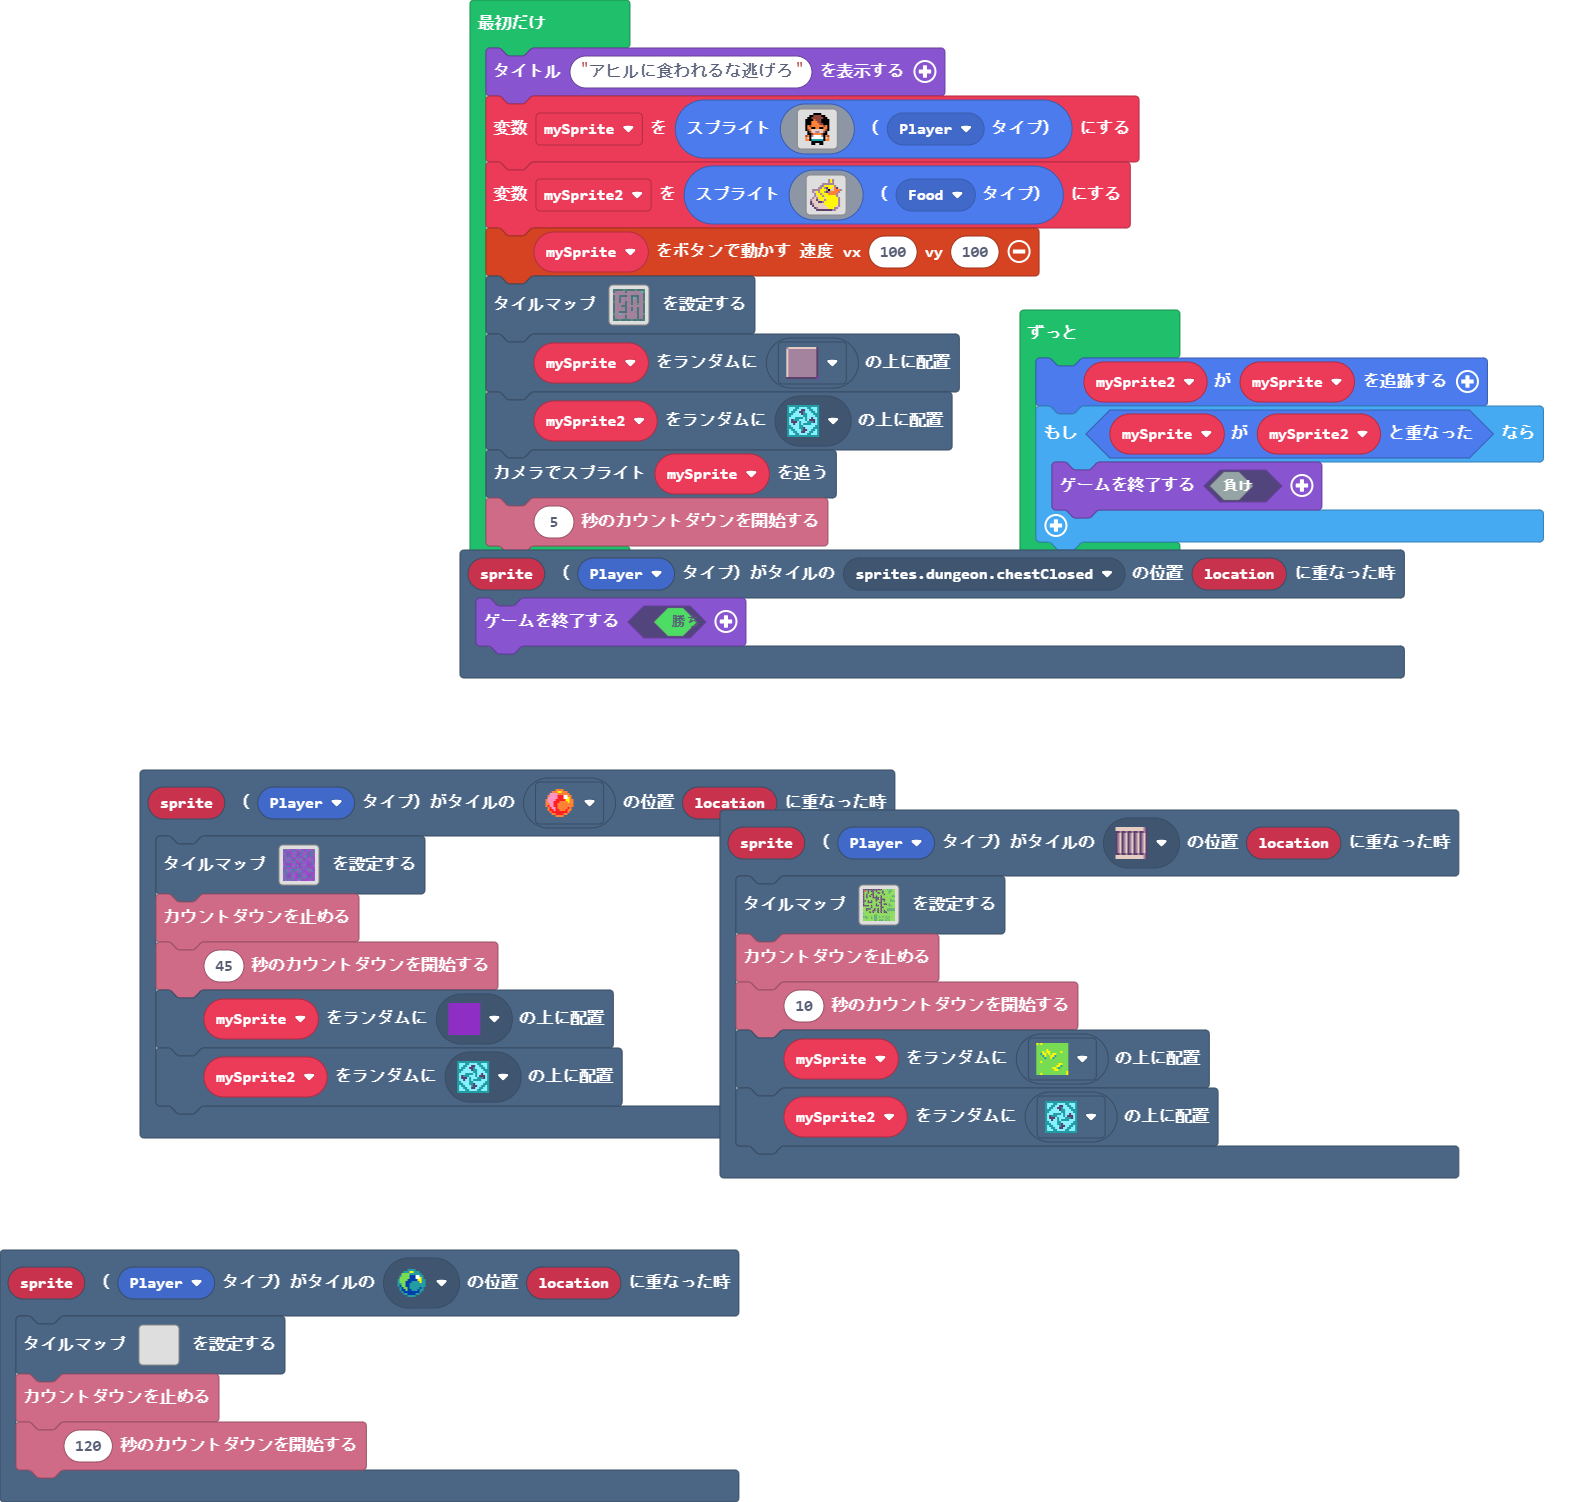
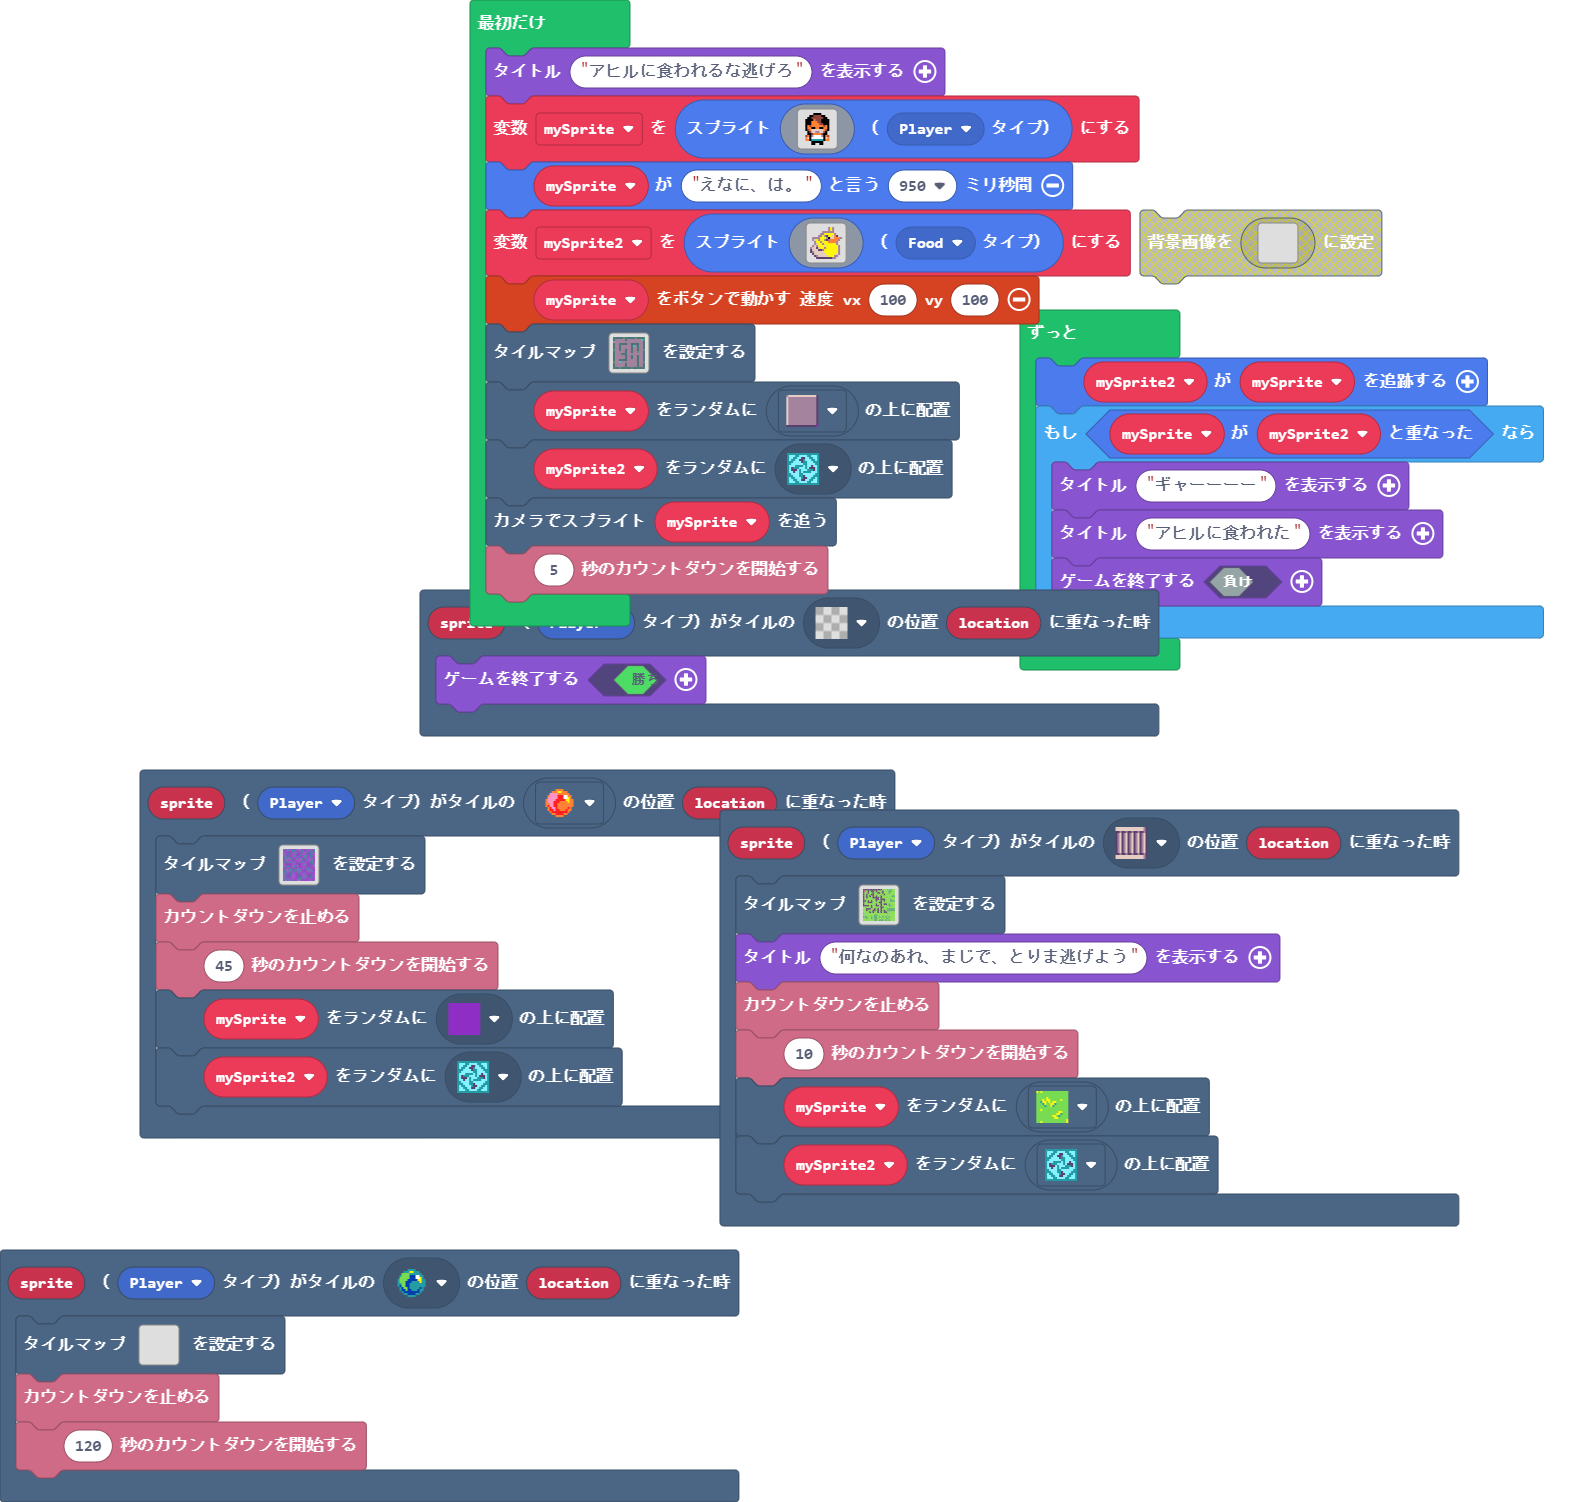
更新 pxt.json, main.blocks, main.ts, images.g.jres, images.g.ts

Changed region(s): [[0.2458, 0.0919, 0.9831, 0.49], [0.4301, 0.6125, 0.9216, 0.8269]]

diff --git a/images.g.ts b/images.g.ts
@@ -1,0 +1,71 @@
+// 自動生成されたコードです。変更しないでください。
+namespace myImages {
+
+    helpers._registerFactory("image", function(name: string) {
+        switch(helpers.stringTrim(name)) {
+
+        }
+        return null;
+    })
+
+    helpers._registerFactory("animation", function(name: string) {
+        switch(helpers.stringTrim(name)) {
+            case "villager3WalkRight":
+            case "anim1":return [img`
+. . . . . . . . . . . . 
+. . . f f f f f f . . . 
+. f f f e e e e e f . . 
+f f f e e e e e e e f . 
+f f f f e e e e e e e f 
+f f f f f e e e 4 e e f 
+f f f f e e e 4 4 e e f 
+f f f f 4 4 4 4 4 e f f 
+f f 4 e 4 f f 4 4 e f . 
+f f 4 d 4 d d d d f . . 
+. f f f 4 d d b b f . . 
+. 4 d d e 4 4 4 e f . . 
+. e d d e 1 1 1 1 f . . 
+. f e e f 6 6 6 6 f f . 
+. f f f f f f f f f f . 
+. . f f . . . f f f . . 
+`, img`
+. . . . . . . . . . . . 
+. . . f f f f f f . . . 
+. f f f e e e e e f . . 
+f f f e e e e e e e f . 
+f f f f e e e e e e e f 
+f f f f f e e e 4 e e f 
+f f f f e e e 4 4 e e f 
+f f f f 4 4 4 4 4 e f f 
+f f 4 e 4 f f 4 4 e f . 
+. f 4 d 4 d d d d f . . 
+. f f f e e d b b f . . 
+. . f 4 d d e 4 e f . . 
+. . f e d d e 1 1 f . . 
+. f f f e e f 6 6 f f . 
+. f f f f f f f f f f . 
+. . f f . . . f f f . . 
+`, img`
+. . . . f f f f f . . . 
+. . f f e e e e e f . . 
+. f f e e e e e e e f . 
+f f f f e e e e e e e f 
+f f f f f e e e 4 e e f 
+f f f f e e e 4 4 e e f 
+f f f f 4 4 4 4 4 e f f 
+f f 4 e 4 f f 4 4 e f f 
+. f 4 d 4 d d d d f f . 
+. f f f 4 d d b b f . . 
+. . f e e 4 4 4 e f . . 
+. . 4 d d e 1 1 1 f . . 
+. . e d d e 1 1 1 f . . 
+. . f e e f 6 6 6 f . . 
+. . . f f f f f f . . . 
+. . . . f f f . . . . . 
+`];
+        }
+        return null;
+    })
+
+}
+// 自動生成されたコードです。変更しないでください。

diff --git a/main.ts b/main.ts
@@ -1,5 +1,6 @@
 scene.onOverlapTile(SpriteKind.Player, sprites.dungeon.stairWest, function (sprite, location) {
     tiles.setTilemap(tilemap`レベル1`)
+    game.splash("何なのあれ、まじで、とりま逃げよう")
     info.stopCountdown()
     info.startCountdown(10)
     tiles.placeOnRandomTile(mySprite, sprites.castle.tileGrass3)
@@ -10,7 +11,7 @@ scene.onOverlapTile(SpriteKind.Player, sprites.dungeon.collectibleBlueCrystal, f
     info.stopCountdown()
     info.startCountdown(120)
 })
-scene.onOverlapTile(SpriteKind.Player, sprites.dungeon.chestClosed, function (sprite, location) {
+scene.onOverlapTile(SpriteKind.Player, assets.tile`transparency16`, function (sprite, location) {
     game.over(true)
 })
 scene.onOverlapTile(SpriteKind.Player, sprites.dungeon.collectibleRedCrystal, function (sprite, location) {
@@ -41,6 +42,7 @@ mySprite = sprites.create(img`
     . . . f f f f f f . . . 
     . . . f f . . f f . . . 
     `, SpriteKind.Player)
+mySprite.say("えなに、は。", 950)
 mySprite2 = sprites.create(img`
     . . . . . . . . . b 5 b . . . . 
     . . . . . . . . . b 5 b . . . . 
@@ -68,6 +70,8 @@ info.startCountdown(5)
 forever(function () {
     mySprite2.follow(mySprite)
     if (mySprite.overlapsWith(mySprite2)) {
+        game.splash("ギャーーーー")
+        game.splash("アヒルに食われた")
         game.over(false)
     }
 })
